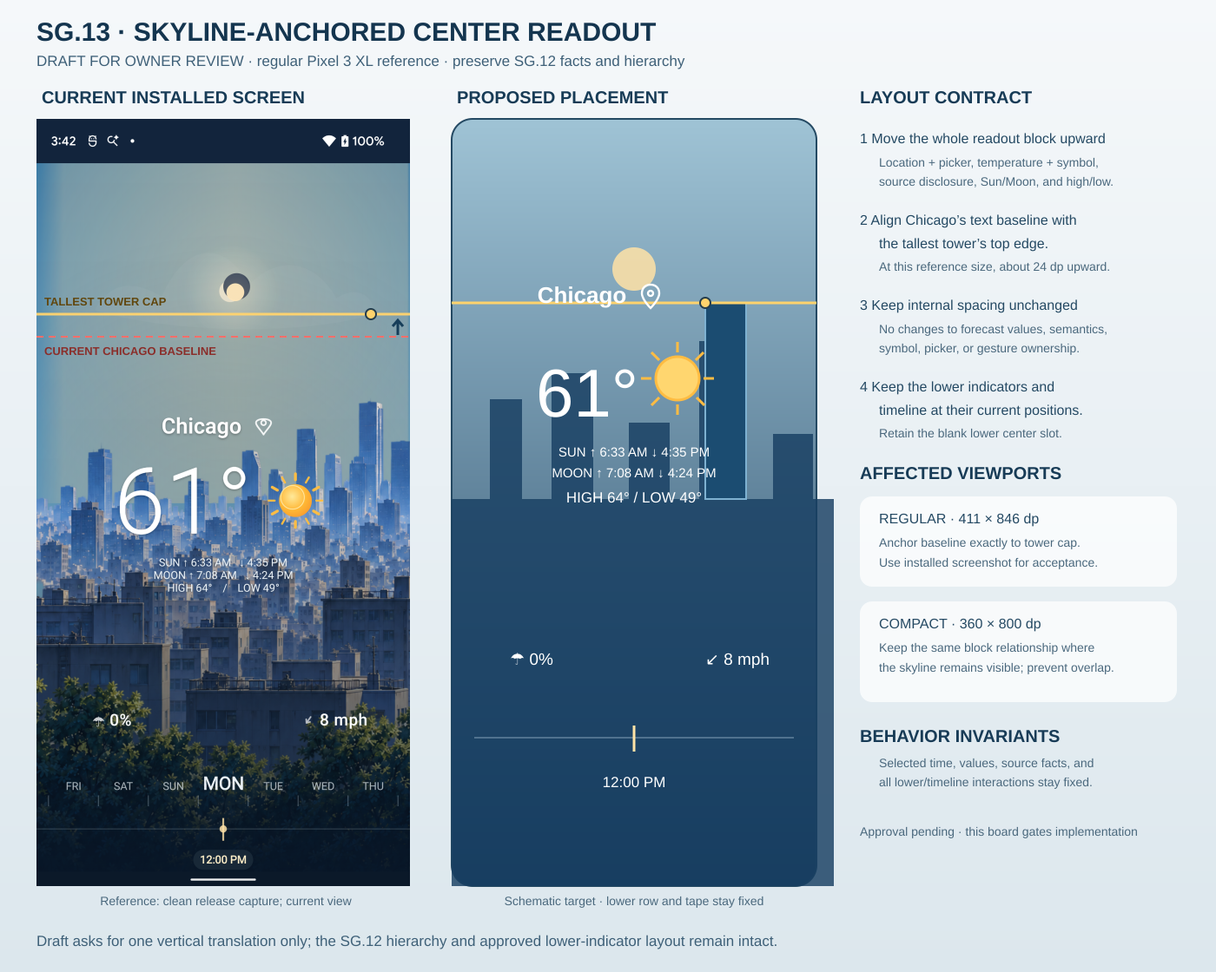
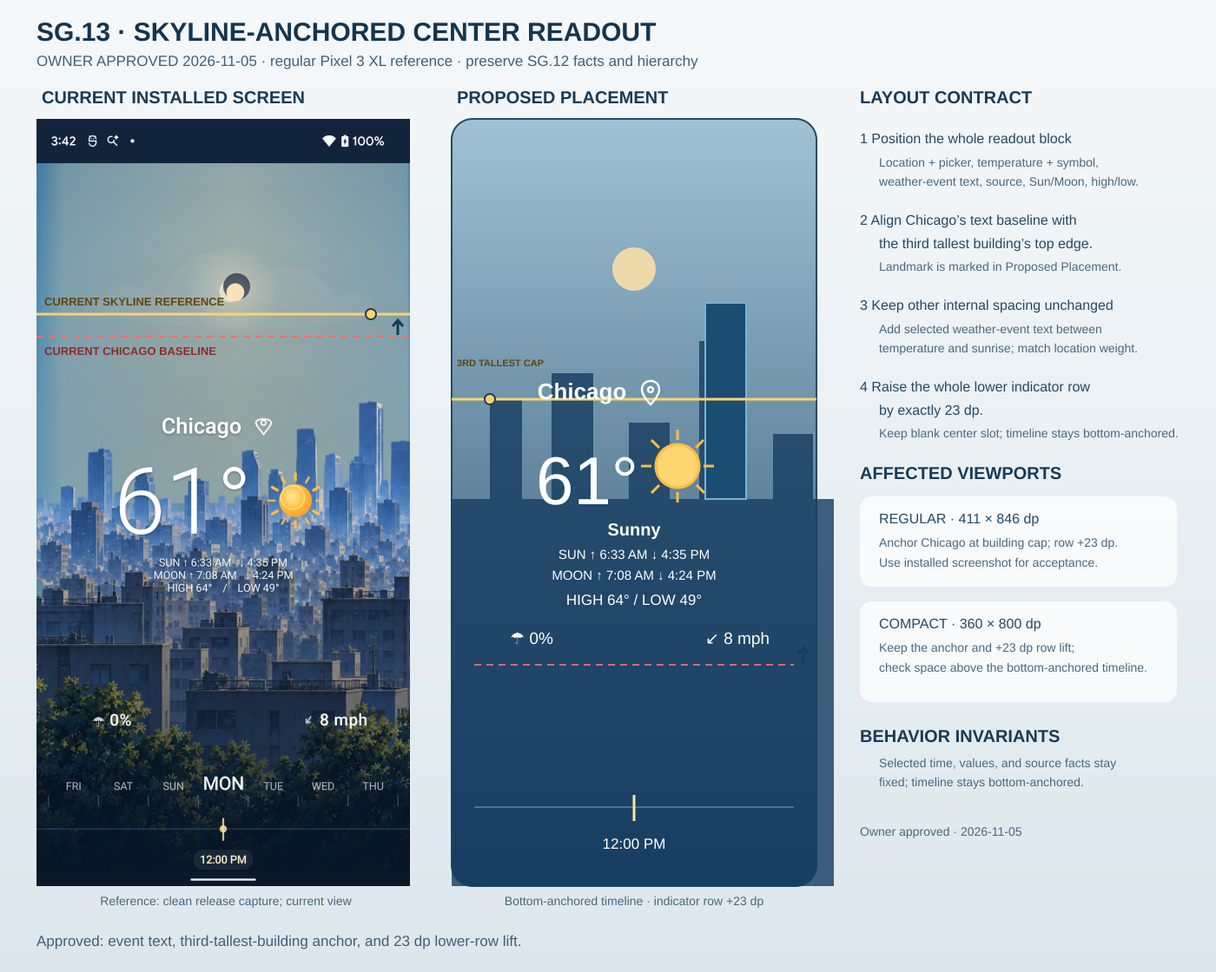
SG.13: align and complete center forecast readout
Align the central forecast group with the approved third-tallest skyline landmark. Add the selected event condition between temperature and the existing source-time disclosure, with an explicit unavailable fallback. Raise the precipitation and wind indicator row by 23 dp independently of the readout.

Update the approved SG.13 behavior and artwork board, experience specification, roadmap completion status, and cycle 109 history. Archive the completed bounded plan with its verification evidence and limitations.

Verified: workflow, contract, build, debug install and launch, regular and compact layouts, focused 1.3 font-scale capture, scoped picker/timeline interactions, and git diff checks. Automated tests were not run per the plan. Carried-condition and unavailable-condition states were not available in the selected Chicago catalog review.

diff --git a/app/src/main/java/com/oxygen/weather/timeline/ui/CatalogTimeLabScreen.kt b/app/src/main/java/com/oxygen/weather/timeline/ui/CatalogTimeLabScreen.kt
@@ -190,7 +190,7 @@ private fun CatalogTimeLabScreenContent(
             }
         }
         Column(
-            Modifier.fillMaxWidth().align(Alignment.Center).offset(y = (-20).dp)
+            Modifier.fillMaxWidth().align(Alignment.Center).offset(y = (-48).dp)
                 .padding(horizontal = 25.dp * responsiveScale),
             horizontalAlignment = Alignment.CenterHorizontally,
         ) {
@@ -274,6 +274,11 @@ private fun CatalogTimeLabScreenContent(
                         contentDescription = symbolName,
                     )
                 }
+                Text(view.condition ?: "Condition unavailable", color = Color(0xFFECF3F8),
+                    fontSize = 18.sp * responsiveScale, fontWeight = FontWeight.SemiBold,
+                    textAlign = TextAlign.Center,
+                    style = TextStyle(shadow = readoutShadow),
+                    modifier = Modifier.testTag("catalogSelectedCondition"))
                 view.conditionSourceDisclosure?.let { disclosure ->
                     Text(disclosure, color = Color(0xFFECF3F8),
                         fontSize = 12.sp * responsiveScale, textAlign = TextAlign.Center,
@@ -296,7 +301,8 @@ private fun CatalogTimeLabScreenContent(
         Column(Modifier.fillMaxWidth().align(Alignment.BottomCenter).navigationBarsPadding()) {
             CompositionLocalProvider(LocalLayoutDirection provides LayoutDirection.Ltr) {
                 Row(
-                    Modifier.fillMaxWidth().padding(horizontal = 27.dp * responsiveScale),
+                    Modifier.fillMaxWidth().offset(y = (-23).dp)
+                        .padding(horizontal = 27.dp * responsiveScale),
                     horizontalArrangement = Arrangement.Center,
                     verticalAlignment = Alignment.CenterVertically,
                 ) {

diff --git a/.codex/history/plans/109-sg13-skyline-anchored-readout.md b/.codex/history/plans/109-sg13-skyline-anchored-readout.md
@@ -1,0 +1,53 @@
+# Cycle plan — 109-sg13-skyline-anchored-readout
+
+State: ACTIVE
+Cycle ID: 109-sg13-skyline-anchored-readout
+Roadmap: SG.13
+Objective: Add the selected weather event as a text row between temperature and sunrise, using the location label's font weight; align the Chicago text baseline with the top edge of the third tallest building in the board's Proposed Placement image; and move the lower precipitation/wind row upward exactly 23 dp.
+
+## Readiness and approval gate
+
+The owner approved the current SG.13 combined behavior/UI artwork board package on 2026-11-05. It defines the third-tallest-building landmark in Proposed Placement, the new selected weather-event text row with location-label font weight, a separate exact 23 dp lift of the lower indicators, and the fixed scene/timeline. This bounded decision supersedes SG.12's omission of the visible center condition word. SG.12 is DONE, and SG.13 was the sole NEXT eligible slice. The owner's `oxygen-execute-plan` request activated cycle 109 on 2026-11-05.
+
+## Production boundary
+
+Change only `app/src/main/java/com/oxygen/weather/timeline/ui/CatalogTimeLabScreen.kt` for central readout content/vertical placement and the lower indicator row offset. Use the existing selected-condition projection and its provenance semantics for the new row. Add installed evidence under `.codex/test-artifacts/109-sg13-skyline-anchored-readout/`, closeout at `.codex/history/109-sg13-skyline-anchored-readout.md`, and archived plan at `.codex/history/plans/109-sg13-skyline-anchored-readout.md`. Update roadmap/cycle records at closeout. Do not change symbol identity, forecast values, timeline position, picker behavior, other typography, existing semantics, or gesture behavior. Keep lower indicator contents and spacing unchanged while translating its whole row up 23 dp.
+
+## Functional invariants
+
+- Translate the selected-location row and the complete associated central readout as one block: picker trigger, temperature/symbol pair, weather-event text row, any source-time disclosure, Sun/Moon facts, and high/low.
+- Insert the selected weather event as text between temperature and sunrise, with the same font weight as the location label. Use the existing selected-condition presentation value (`CatalogTimelineView.condition`) rather than deriving text from the scene or icon; when it is absent, show an explicit unavailable status instead of a weather claim. A carried condition retains its original source-time disclosure beside the new row and must not read as newly supplied.
+- At the 411×846 dp Pixel 3 XL reference viewport, align the Chicago text baseline with the top edge of the third tallest building shown in the board's `PROPOSED PLACEMENT` panel. Tune the offset against installed evidence to meet that landmark.
+- Preserve existing alignment, scaling, values, and merged accessibility semantics; preserve existing typography except for the new text row's specified font weight.
+- Translate the lower precipitation/wind cue and value fields plus the blank center slot upward by exactly 23 dp as one row, separately from the center readout. Keep the atmospheric scene fixed and the timeline anchored at the bottom of the screen; neither moving group may reposition the timeline.
+- Preserve selected-time authority, picker action, and existing tap/swipe gesture meaning.
+
+## Installed conditions
+
+- Review the approved 411×846 dp Pixel 3 XL portrait reference at default font scale and the affected 360×800 dp compact portrait layout at default font scale. The skyline baseline is judged against the marked Proposed Placement landmark in the regular capture; inspect the same relationship and spacing in the compact capture.
+- Because SG.13 adds visible text, inspect the affected readout at 1.3 font scale on the regular viewport for clipping or collisions; record the device setting and result. Keep this a focused text-fit check, not a broad font-scale matrix.
+- RTL changes neither the approved landmark nor the selected-condition meaning; no RTL matrix belongs to this design slice. SG.13 adds no animation, so reduced-motion still presents the same selected instant, event text, and facts. Record these applicability decisions; dedicated TEST slices own cross-cutting installed acceptance.
+
+## Ordered steps
+
+1. On activation, inspect the existing main-screen layout and SG.12 selected-condition/provenance presentation; record baseline regular and compact device settings and captures.
+2. Add the selected weather-event text between temperature and sunrise with location-label font weight. Position the complete central readout group at the approved third-tallest-building anchor. Separately offset the entire lower indicator row upward by exactly 23 dp; keep scene and timeline fixed.
+3. Build/install the app. Capture regular 411×846 dp and compact 360×800 dp installed states at default font scale, plus the focused 1.3 font-scale readout state. Compare the Chicago baseline with the marked board landmark at regular size, and inspect compact spacing above the lifted lower row and fixed timeline. Use a clean product capture for the board comparison; use an existing debug selection route only where needed for alternate event states.
+4. Check representative supported, carried, and unavailable event text and source disclosure where available through the existing selection path; inspect selected-time, picker, center swipe/tap, and timeline gesture ownership in the shifted layout. Compare supplied values with their shown values. Record PASS/FAIL/NOT RUN per check.
+5. Inspect `git diff --check` and final scoped diff. Record exact commands, screenshots, observations and limits; close only when the approved anchor and affected interactions are evidenced. Do not add or run automated tests without user authorization.
+
+## Acceptance and evidence
+
+Installed Pixel 3 XL captures show the location row baseline aligned to the third tallest building cap in the Proposed Placement board at the regular reference viewport. The selected weather event appears as text between temperature and sunrise, reflects the selected condition or truthful unavailable state, and uses the same font weight as the location label. Carried conditions retain source-time disclosure. The central readout hierarchy remains intact; the separate precipitation/wind row and blank slot have moved upward exactly 23 dp. The timeline stays anchored at the bottom and does not move with either group. In the compact viewport the groups stay legible and do not collide; the focused 1.3 font-scale check records the new row's text fit. Focused selection, picker, and directly affected gesture checks preserve existing behavior. Save actual captures under `.codex/test-artifacts/109-sg13-skyline-anchored-readout/` (regular, compact, 1.3 font-scale, and available event/provenance states) and record PASS/FAIL/NOT RUN results in its `README.md`, including device size/density, font scale, build/install commands, selected state, and comparisons to the approved board.
+
+## Board package
+
+Combined objective-specific behavior and UI artwork board: `.codex/concepts/SG.13-skyline-anchored-center-readout.svg` (PNG preview `.codex/concepts/SG.13-skyline-anchored-center-readout.png`), clean installed current-state reference `.codex/concepts/SG.13-current-main-screen-reference.png`, and explanatory contract `.codex/concepts/SG.13-skyline-anchored-center-readout.md`. Product owner approved this board package as shown on 2026-11-05, with no further constraints stated. The board governs the baseline-to-third-tallest-building relationship, weather-event text row and font-weight match, center-group positioning, separate exact 23 dp lower-row movement, and bottom-anchored timeline. Its current-screen image is a reference, not after-state evidence.
+
+## Verification limits and exclusions
+
+Authorized verification after activation: `python scripts/dev.py workflow`, `python scripts/dev.py contract`, `python scripts/dev.py build`, `python scripts/dev.py run` or equivalent release install for a clean product capture, `python scripts/dev.py screenshot --serial 8AKY0M32X --output <cycle evidence path>`, focused manual checks above, and `git diff --check`. The connected Pixel 3 XL (`8AKY0M32X`) was visible and authorized for installed review. Automated tests were not added or run. Execution results, installed captures, and NOT RUN states are recorded in `.codex/test-artifacts/109-sg13-skyline-anchored-readout/README.md` and `.codex/history/109-sg13-skyline-anchored-readout.md`.
+
+Risks: the new text row consumes vertical space and may collide with Sun/Moon or lower indicators in the compact viewport; the skyline cap is a visual reference that needs installed comparison rather than a guessed numeric offset; carried/unavailable condition labels must remain truthful. If a collision or semantic mismatch appears, resolve it within this readout composition boundary and document the exact adjustment.
+
+Out of scope: new weather mapping or forecast behavior, scene artwork or timeline movement, picker/navigation changes, lower-indicator content, responsive redesign beyond the affected compact layout, animation, RTL, TalkBack, and broad system/environment acceptance.

diff --git a/docs/ROADMAP.md b/docs/ROADMAP.md
@@ -17,7 +17,7 @@ Design and implementation slices do not run RTL, TalkBack, or broad system/envir
 
 WX.1, WX.2, WX.3, WX.5, WX.6, WX.9–WX.13, WX.13R, WX.15–WX.20, WX.22, WX.23, WX.24, WX.10R, WX.25, and WX.26 are `DONE`. WX.27 and WX.28 are `DEFERRED` until the product is finished and polished and release-readiness work is appropriate. WX.30 was cancelled by the owner on 2026-11-03 because no defect in the app's actual source path had been demonstrated; any future need must be planned as a new slice through the workflow. WX.31 remains `DEFERRED` pending a separately established need and workflow review. G.5, SG.0, SG.1, SG.2, SG.3, SG.4, SG.4a, SG.9, and BT.1 are `DONE`; cycle 079 was owner-accepted with unverified rain/unavailable-weather assigned to SG.4 and later SG slices, cycle 080 closed SG.3, cycle 081 closed SG.4 with focused installed evidence and owner-directed test limits, cycle 082 closed SG.4a with installed cloud-height evidence, and cycle 083 closed SG.9 with the typed catalog scene path and installed state comparisons. DFM.4.1–DFM.4.6 are `DONE` in cycles 085–090. **SG.5 is `DONE` in cycle 091;** SG.10 is `DONE` in cycle 092 with approved boards and installed evidence; SG.6 is `DEFERRED`, SG.7 remains `PLANNED` and depends on SG.6, and SG.8 is `DONE` in cycle 093 with approved boards, provider-boundary resolution, responsive compact layout, focused tests, and installed evidence. DFM.4's revised behavior/workbench and clean-main/readout artwork boards were approved on 2026-11-01, as recorded in the DFM.4 slice below; DFM.4.6 closed the split DFM.4 workstream in cycle 090 on 2026-11-02. The SG.5 behavior and UI artwork boards were approved on 2026-11-02; cycle 091 closed with installed evidence and scoped NOT RUN states recorded in its closeout and evidence README. SG.8 lunar work remains separate from SG.4; its approved board constraints and cycle plan are recorded below. Every unfinished slice requires its objective-specific behavior board and, for UI/visual work, UI artwork board(s) before its cycle plan can be finalized. The owner-directed P.2.16 correction is DONE in cycle 048. SG work does not depend on deferred release-readiness slices.
 
-WA.1–WA.6 are `DONE`; the six-row Weather Artwork sequence is complete. SG.11a Sky mapping is `DONE` in cycle 102, SG.11b Rain and ice mapping is `DONE` in cycle 103, SG.11c Snow and mixed precipitation mapping is `DONE` in cycle 104, SG.11d Visibility and wind mapping is `DONE` in cycle 105, SG.11e Storm and fallback mapping is `DONE` in cycle 106, SG.11f Additional events mapping is `DONE` in cycle 107, SG.12's board-acceptance correction is `DONE` in cycle 108, and SG.13 is a planned skyline-alignment follow-up with its combined board awaiting owner approval.
+WA.1–WA.6 are `DONE`; the six-row Weather Artwork sequence is complete. SG.11a Sky mapping is `DONE` in cycle 102, SG.11b Rain and ice mapping is `DONE` in cycle 103, SG.11c Snow and mixed precipitation mapping is `DONE` in cycle 104, SG.11d Visibility and wind mapping is `DONE` in cycle 105, SG.11e Storm and fallback mapping is `DONE` in cycle 106, SG.11f Additional events mapping is `DONE` in cycle 107, SG.12's board-acceptance correction is `DONE` in cycle 108, and SG.13 is `DONE` in cycle 109 with its approved skyline-alignment board and installed evidence.
 
 ### Owner-directed reprioritization — 2026-11-01
 
@@ -921,13 +921,13 @@ The SG workstream follows the owner-directed pivot recorded above and is grounde
 **Correction opened 2026-11-05:** Owner review confirmed the debug-only top source bar is not product UI and found the approved inline lower-indicator cues were omitted from cycle 101. Cycle 108 completes the already-approved lower-indicator board composition and recaptures a clean product comparison. Cycle 101 remains historical; correction scope and evidence are tracked in `.codex/plans/108-sg12-board-acceptance-correction.md` and `.codex/test-artifacts/108-sg12-board-acceptance-correction/`.
 **Evidence:** Cycle 101 installed evidence `.codex/test-artifacts/101-sg11-center-readout/README.md`; closeout `.codex/history/101-sg11-center-readout.md`; archived plan `.codex/history/plans/101-sg11-center-readout.md`. Cycle 108 correction installed evidence `.codex/test-artifacts/108-sg12-board-acceptance-correction/README.md`; closeout `.codex/history/108-sg12-board-acceptance-correction.md`; archived plan `.codex/history/plans/108-sg12-board-acceptance-correction.md`.
 
-### SG.13 — Align the central readout with the skyline landmark — PLANNED
+### SG.13 — Align the central readout with the skyline landmark — DONE
 
-**Objective/scope:** Move the complete SG.12 central readout upward as one block until the Chicago text baseline aligns with the top edge of the tallest tower in the current city scene. Preserve internal hierarchy, spacing, facts, semantics, picker, lower indicators, blank center slot, scene and timeline. Check the compact affected layout.
+**Objective/scope:** Position the complete SG.12 central readout as one block until the Chicago text baseline aligns with the top edge of the third tallest background building in the board's Proposed Placement panel. Add selected weather-event text between temperature and sunrise at the location label's font weight; this owner-approved SG.13 change supersedes SG.12's omission of the visible condition word. Preserve other internal hierarchy, spacing, facts, semantics, picker, scene and timeline. Move the precipitation/wind cue-value row and blank center slot up by exactly 23 dp as a separate group; check the compact affected layout.
 **Depends on:** SG.12.
-**Exit:** Installed regular Pixel 3 XL capture shows Chicago's baseline aligned with the tallest tower cap; compact capture remains legible without collisions. Focused selected-time, picker and directly affected gesture checks retain existing behavior. Actual screenshots and scoped verification limits are recorded.
-**Slice board(s):** Combined behavior and UI artwork board `.codex/concepts/SG.13-skyline-anchored-center-readout.svg` (PNG preview), current clean installed reference `.codex/concepts/SG.13-current-main-screen-reference.png`, and board contract `.codex/concepts/SG.13-skyline-anchored-center-readout.md`. Owner approval pending; plan remains an unfinalized draft until approval is recorded.
-**Evidence:** `.codex/test-artifacts/109-sg13-skyline-anchored-readout/README.md`; closeout `.codex/history/109-sg13-skyline-anchored-readout.md`; archived plan `.codex/history/plans/109-sg13-skyline-anchored-readout.md`.
+**Exit:** Installed regular Pixel 3 XL capture shows Chicago's baseline aligned with the board's third-tallest-building cap, selected event text between temperature and sunrise with the specified weight, and the whole lower indicator row raised by 23 dp while the timeline stays fixed; compact capture remains legible without collisions. Focused selected-time, event-text, picker and directly affected gesture checks retain existing behavior and source honesty. Actual screenshots and scoped verification limits are recorded.
+**Slice board(s):** The product owner approved the combined behavior and UI artwork board `.codex/concepts/SG.13-skyline-anchored-center-readout.svg` (PNG preview), current clean installed reference `.codex/concepts/SG.13-current-main-screen-reference.png`, and board contract `.codex/concepts/SG.13-skyline-anchored-center-readout.md` on 2026-11-05 as shown. Approval covers the board's third-tallest-building anchor, new selected weather-event text row, separate exact 23 dp lower-indicator lift, fixed scene/timeline, and regular/compact affected states. It governs scope and visual acceptance; installed verification remains required.
+**Evidence:** Cycle 109 installed evidence `.codex/test-artifacts/109-sg13-skyline-anchored-readout/README.md`; closeout `.codex/history/109-sg13-skyline-anchored-readout.md`; archived plan `.codex/history/plans/109-sg13-skyline-anchored-readout.md`.
 
 ### SG.6 — Prove theme-specific spatial composition — DEFERRED
 

diff --git a/.codex/concepts/SG.13-skyline-anchored-center-readout.md b/.codex/concepts/SG.13-skyline-anchored-center-readout.md
@@ -1,23 +1,23 @@
-# SG.13 combined behavior and UI artwork board — draft
+# SG.13 combined behavior and UI artwork board
 
-Status: Draft for product-owner review; not yet approved.
+Status: Product-owner approved on 2026-11-05 as the SG.13 behavior and UI artwork board.
 
 ## Objective
 
-Move the complete central forecast readout upward until the baseline of the `Chicago` location label aligns with the horizontal top edge of the tallest background tower in the Pixel 3 XL reference composition.
+Position the complete central forecast readout so the baseline of the `Chicago` location label aligns with the top edge of the third tallest background building in the `PROPOSED PLACEMENT` panel. Add the selected weather event as a text row between temperature and sunrise, using the same font weight as the location label. Move the full lower precipitation/wind indicator row up by exactly 23 dp.
 
 ## Visual contract
 
 - The board's current installed reference is `SG.13-current-main-screen-reference.png`, a clean release capture at 1440×2960 px / 560 dpi.
-- At the 411×846 dp reference viewport, translate the existing central readout group upward by approximately 24 dp, then tune against the visible tower cap so `Chicago`'s text baseline meets that horizontal line.
-- Move the location label and picker, temperature/symbol pair, any source-time disclosure, Sun/Moon rows, and high/low row together as one group. Preserve their internal order, spacing, alignment, typography, content, and semantics.
-- Keep the lower precipitation/wind row, its center gap, the timeline, and the background scene at their current positions.
-- At the compact 360×800 dp viewport, preserve the same hierarchy and skyline relationship where the tower landmark is visible; avoid overlap with lower indicators and timeline.
+- At the 411×846 dp reference viewport, position the central readout group so `Chicago`'s text baseline meets the top edge of the third tallest building in the `PROPOSED PLACEMENT` panel; tune the offset against installed evidence.
+- Move the location label and picker, temperature/symbol pair, weather-event text row, any source-time disclosure, Sun/Moon rows, and high/low row together as one group. Insert the selected weather event as text between temperature and sunrise and give it the same font weight as the location label. Preserve existing alignment, other typography, content, and semantics.
+- Move the lower precipitation cue/value, blank center slot, and wind direction/speed cue/value together upward by exactly 23 dp as a separate group from the center readout. Keep the timeline independently anchored at the bottom of the screen; neither the center readout nor precipitation/wind row moves it. Keep the background scene fixed.
+- At the compact 360×800 dp viewport, preserve the skyline relationship and exact 23 dp lower-row lift; keep the indicators clear of the readout and fixed timeline.
 
 ## Behavior invariants
 
-This is a vertical composition change only. It does not change the selected instant, forecast values, symbol identity, picker action, spoken descriptions, source/provenance meaning, timeline position, swipe/tap behavior, or lower-indicator behavior. All readout content continues to move together when the app lays out the screen.
+This is a bounded readout composition change: add the selected weather event as text between temperature and sunrise, matching the location label's font weight, and position the complete central group at the specified skyline anchor. The lower precipitation/wind row is a separate group and moves up by exactly 23 dp. The timeline stays anchored at the bottom of the screen and does not move with either group. The selected instant, forecast values, symbol identity, picker action, source/provenance meaning, swipe/tap behavior, and lower-indicator content and semantics remain unchanged.
 
 ## Approval
 
-Product-owner approval is pending. The board defines the exact visual acceptance target; no implementation is authorized until approval is recorded in the bounded plan.
+The product owner approved the current board package on 2026-11-05. Approval covers the third-tallest-building anchor in the Proposed Placement panel, the selected weather-event text row and location-weight match, the complete center-group positioning, the separate exact 23 dp lower-row lift, and the fixed scene and bottom timeline. The board defines visual and behavior acceptance; installed evidence remains required.

diff --git a/.codex/history/109-sg13-skyline-anchored-readout.md b/.codex/history/109-sg13-skyline-anchored-readout.md
@@ -1,0 +1,16 @@
+# Cycle 109-sg13-skyline-anchored-readout
+
+Date: 2026-11-05
+Roadmap: SG.13
+
+## Outcome
+
+Implemented SG.13 in CatalogTimeLabScreen.kt: added the selected condition text row using CatalogTimelineView.condition, an explicit unavailable fallback, and the location label font weight; aligned the complete readout to the approved Chicago skyline landmark; and offset the separate precipitation/wind row upward by exactly 23 dp. Regular, compact, and focused 1.3 font-scale installed captures and focused picker, center-swipe, timeline-selection, hourly-hold, and collapse checks are recorded in .codex/test-artifacts/109-sg13-skyline-anchored-readout/README.md. Carried-condition and unavailable-condition installed states were not available in the selected Chicago catalog and remain unverified. The Pixel display, font scale, and selected location were restored.
+
+## Verification actually performed
+
+PASS: python scripts/dev.py workflow (scaffold OK); PASS: python scripts/dev.py contract (transport/architecture guard OK); PASS: python scripts/dev.py build (BUILD SUCCESSFUL); PASS: python scripts/dev.py run (debug APK installed and MainActivity started); PASS: installed Pixel 3 XL regular 411x846 dp, compact 360x800 dp, and 1.3 font-scale captures inspected; PASS: focused picker and selected-time/gesture checks; PASS: git diff --check. NOT RUN: automated tests (not authorized); carried-condition and unavailable-condition installed states (not available through the focused Chicago catalog route); RTL, TalkBack, reduced-motion, and broad system matrix (out of scope for this slice). Evidence: .codex/test-artifacts/109-sg13-skyline-anchored-readout/README.md.
+
+## Follow-up
+
+SG.13 implementation and installed acceptance are complete. The carried-condition and unavailable-condition appearance remains unverified because neither state was available through the selected Chicago catalog route; review those states when an existing selection route exposes them. Automated tests and broad system matrices were not run, consistent with the plan's authorization and slice boundaries.

diff --git a/docs/OXYGEN_EXPERIENCE_SPECIFICATION.md b/docs/OXYGEN_EXPERIENCE_SPECIFICATION.md
@@ -131,7 +131,7 @@ The prototype's fixed 24-hour fixture days permit ±24-hour navigation. Successo
 Priority order:
 
 1. **Atmospheric visual field** — full-bleed, dynamic, and subordinate to readable facts.
-2. **Current selected forecast** — large temperature paired with a matching weather symbol, with the selected day/time visible on the timeline. Under the owner-approved SG.12 readout direction, the central supported-condition word is omitted; the condition name remains available through accessible semantics and the textual forecast browser. A carried prior-hour condition keeps visible source-time disclosure, and an unavailable condition may show an explicit status.
+2. **Current selected forecast** — large temperature paired with a matching weather symbol, with the selected day/time visible on the timeline. The owner-approved SG.13 readout adds selected weather-event text between temperature and sunrise, superseding SG.12's omission of the central condition word. The condition name remains available through accessible semantics and the textual forecast browser. A carried prior-hour condition keeps visible source-time disclosure, and an unavailable condition may show an explicit status.
 3. **Secondary facts** — a small, stable set such as precipitation chance, wind, and daily high/low; accessible in text.
 4. **Timeline shuttle** — minimalist time-navigation instrument near the bottom, with a forgiving invisible touch region.
 5. **Additional forecast facts** — reachable without permanently covering the scene when real data becomes available.
